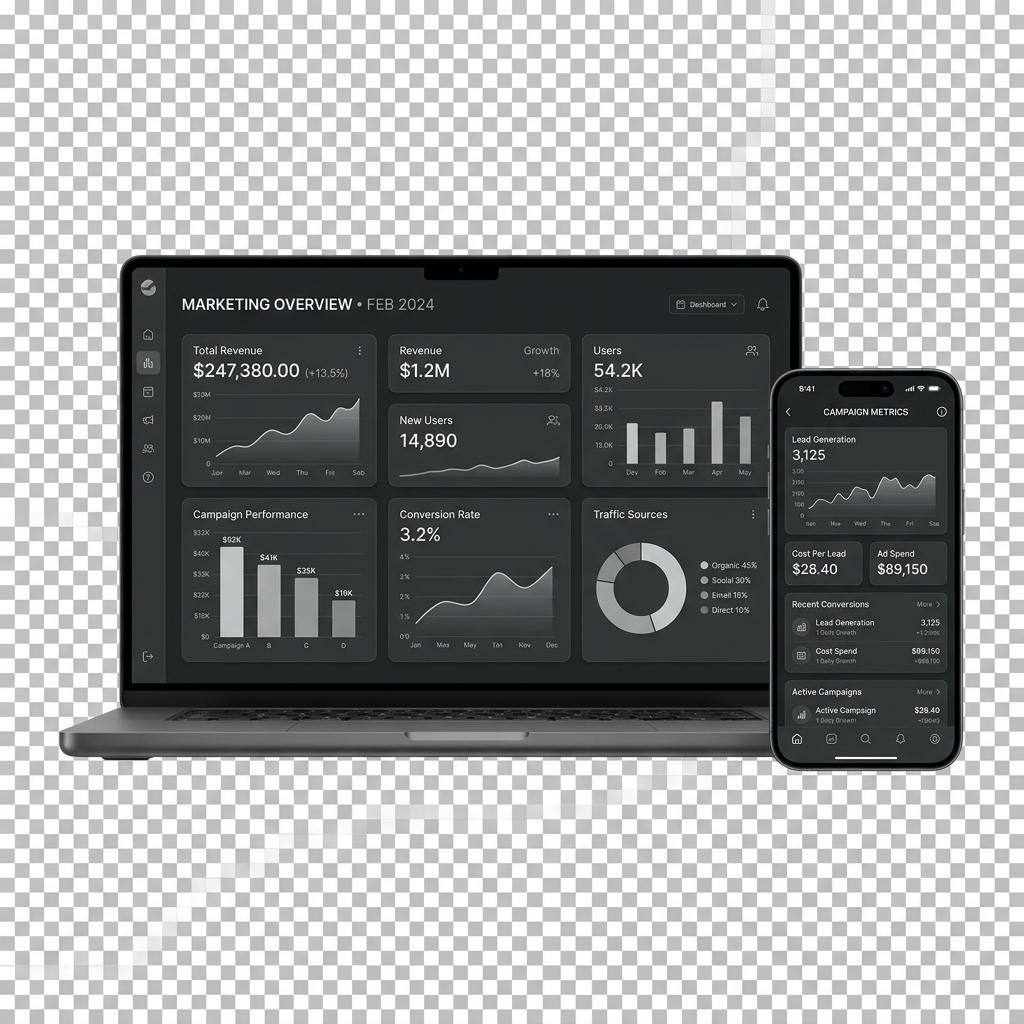
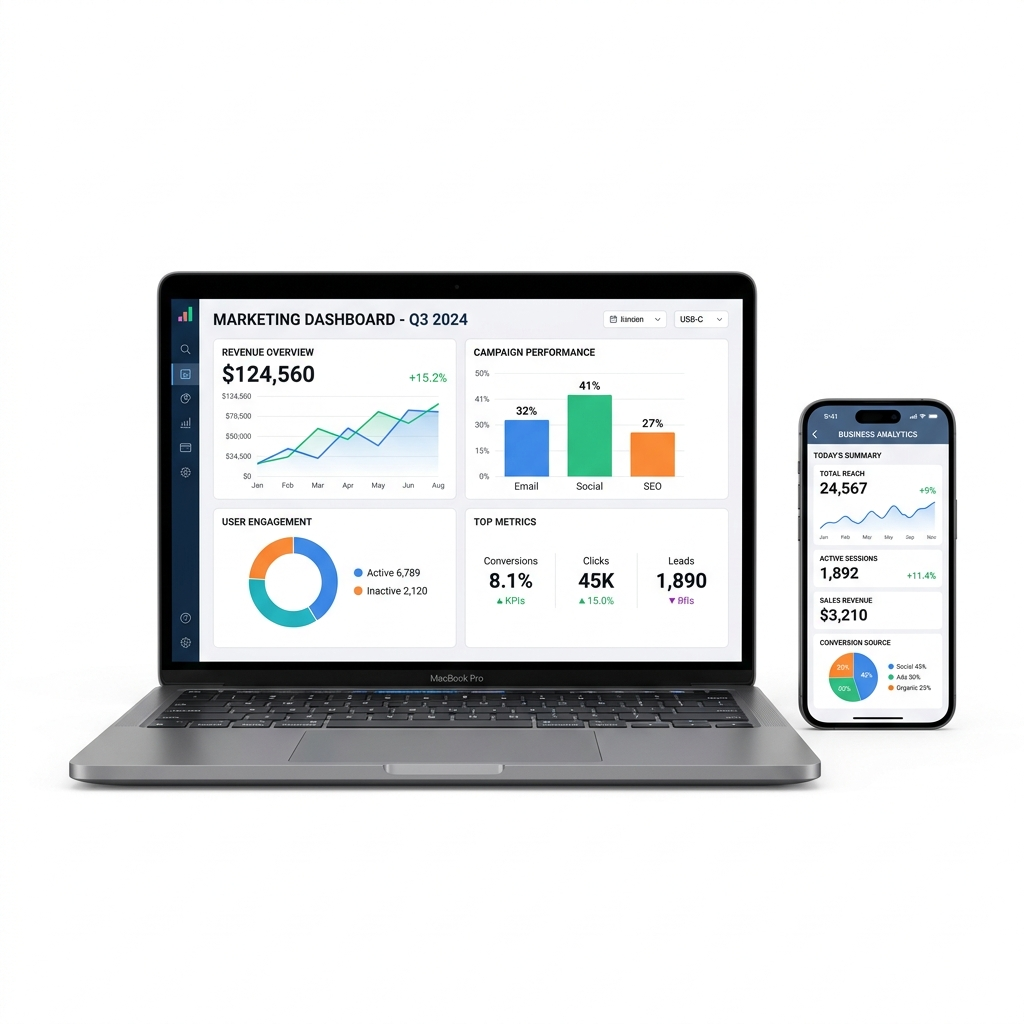
Style: update marketing mockup to clean isolated version and scale it larger on desktop

diff --git a/style.css b/style.css
@@ -249,8 +249,8 @@ html, body {
 
 .image-wrapper {
   position: relative;
-  width: auto;
-  height: 480px;
+  width: 100%;
+  height: 540px;
   max-width: none;
   transform: translateY(-20px);
   z-index: 25; /* Highest z-index so the woman sits in front of the stats text if they overlap */
@@ -258,7 +258,7 @@ html, body {
 
 .devices-mockup-img {
   height: 100%;
-  width: auto;
+  width: 100%;
   display: block;
   object-fit: contain;
   filter: contrast(1.04) brightness(0.99);
@@ -689,7 +689,7 @@ html, body {
     font-size: 14px;
   }
   .image-wrapper {
-    height: 380px;
+    height: 440px;
     transform: translateY(-20px);
   }
   .diagonal-divider {